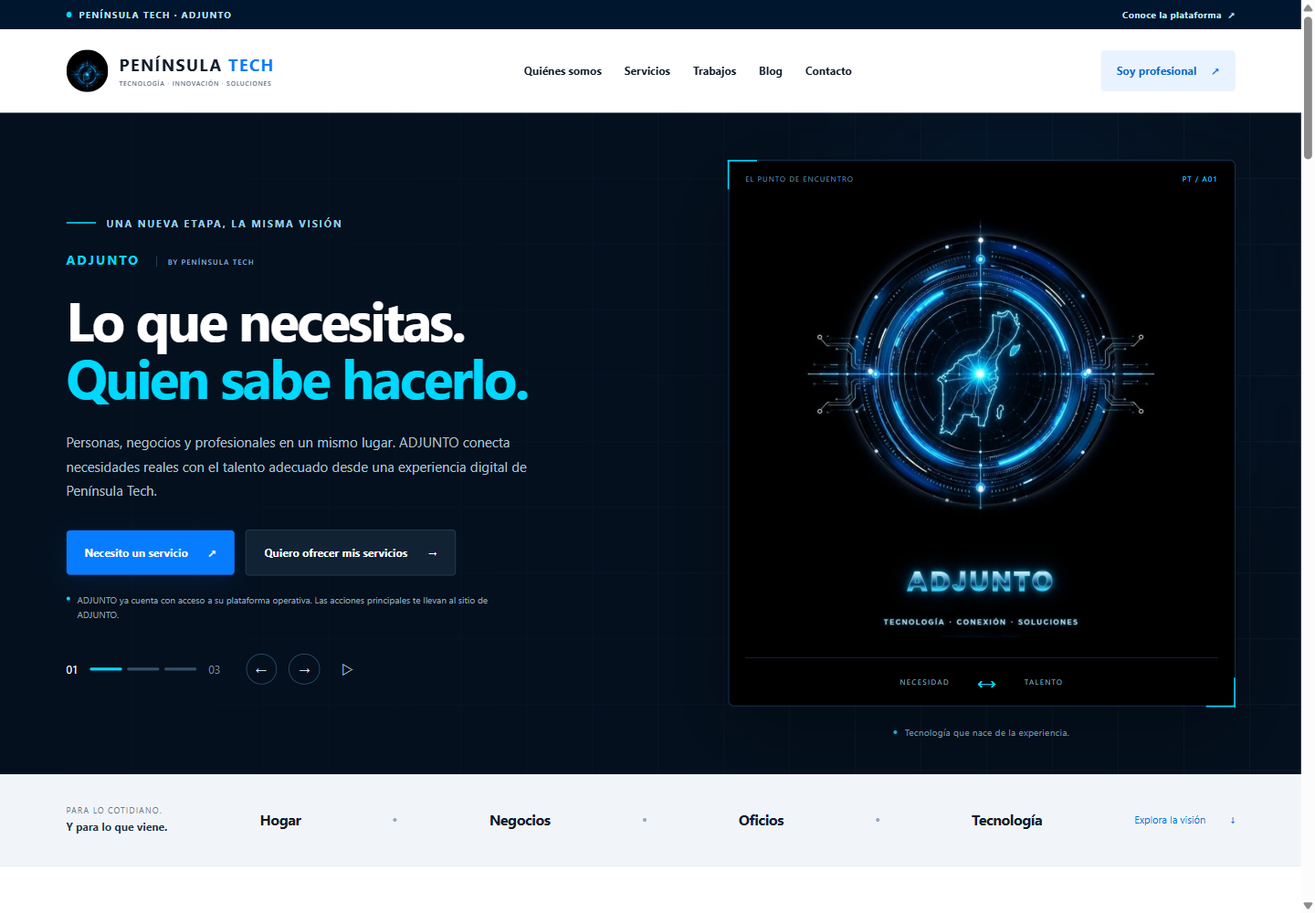
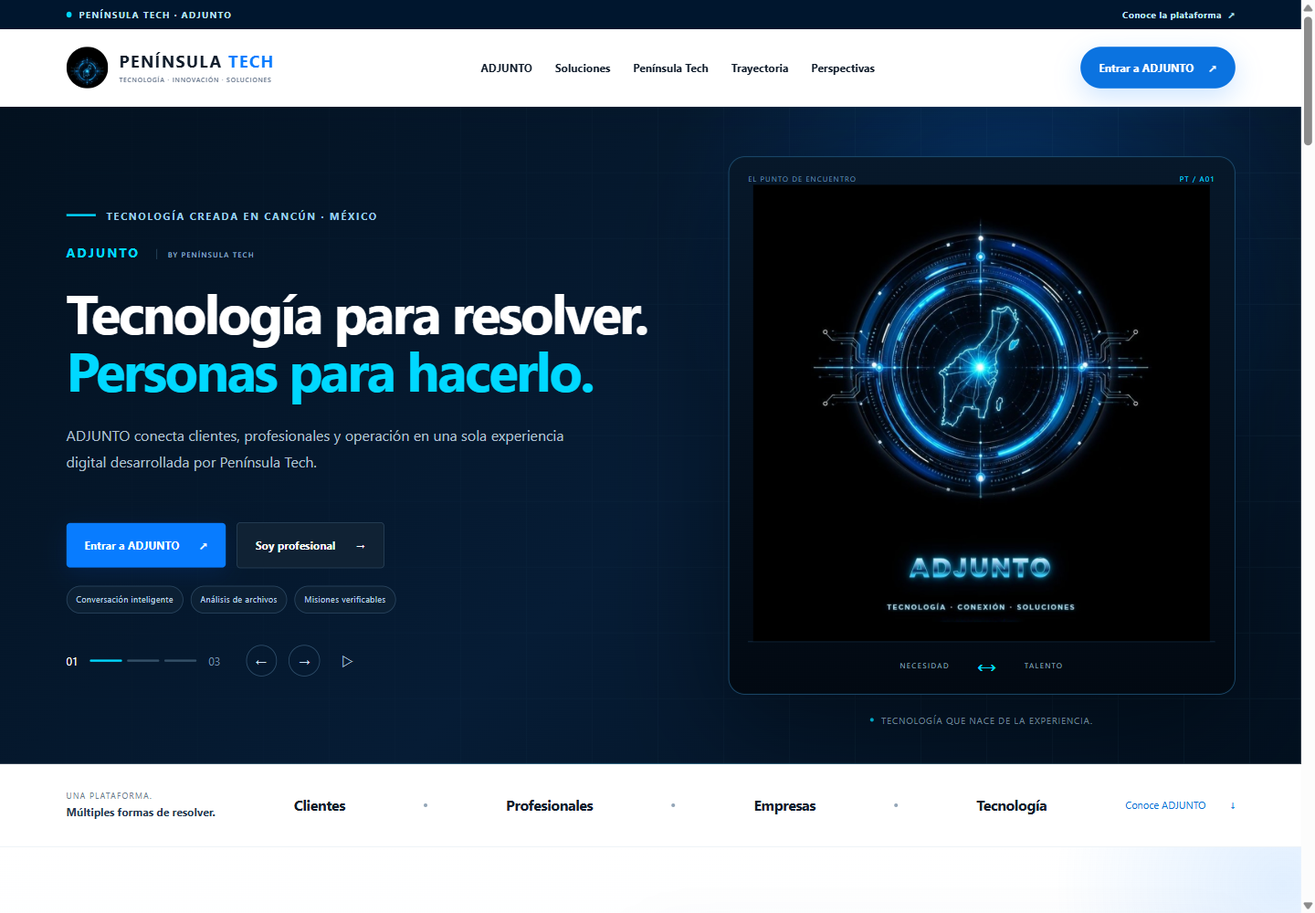
Polish Peninsula Tech corporate landing

diff --git a/peninsula-tech-web/public/index.html b/peninsula-tech-web/public/index.html
@@ -14,57 +14,62 @@
 <header class="header"><div class="wrap nav-wrap">
 <a class="brand" href="#inicio" aria-label="Península Tech, inicio"><img src="assets/peninsula-emblema.png" width="52" height="52" alt="Emblema oficial de Península Tech"><span>PENÍNSULA <strong>TECH</strong><small>TECNOLOGÍA · INNOVACIÓN · SOLUCIONES</small></span></a>
 <button class="menu-toggle" aria-label="Abrir menú" aria-controls="navigation" aria-expanded="false"><span></span><span></span></button>
-<nav id="navigation" aria-label="Navegación principal"><a href="#somos">Quiénes somos</a><a href="#servicios">Servicios</a><a href="#trabajos">Trabajos</a><a href="#blog">Blog</a><a href="#contacto">Contacto</a></nav>
-<button class="nav-action" data-open="professional">Soy profesional <span aria-hidden="true">↗</span></button>
+<nav id="navigation" aria-label="Navegación principal"><a href="#adjunto">ADJUNTO</a><a href="#servicios">Soluciones</a><a href="#somos">Península Tech</a><a href="#trabajos">Trayectoria</a><a href="#blog">Perspectivas</a></nav>
+<button class="nav-action" data-open="client">Entrar a ADJUNTO <span aria-hidden="true">↗</span></button>
 </div></header>
 <main id="principal">
 <section class="hero" id="inicio" aria-roledescription="carrusel" aria-label="Presentación de ADJUNTO">
 <div class="hero-grid" aria-hidden="true"></div><div class="orb orb-one" aria-hidden="true"></div>
 <div class="wrap hero-layout">
-<div class="hero-content"><p class="eyebrow"><span class="line"></span> UNA NUEVA ETAPA, LA MISMA VISIÓN</p>
+<div class="hero-content"><p class="eyebrow"><span class="line"></span> TECNOLOGÍA CREADA EN CANCÚN · MÉXICO</p>
 <p class="product-label">ADJUNTO <span>BY PENÍNSULA TECH</span></p>
 <div class="slide-copy" aria-live="off">
-<h1 id="hero-title">Lo que necesitas.<br><em>Quien sabe hacerlo.</em></h1>
-<p class="hero-desc" id="hero-desc">Personas, negocios y profesionales en un mismo lugar. ADJUNTO conecta necesidades reales con el talento adecuado desde una experiencia digital de Península Tech.</p>
+<h1 id="hero-title">Tecnología para resolver.<br><em>Personas para hacerlo.</em></h1>
+<p class="hero-desc" id="hero-desc">ADJUNTO conecta clientes, profesionales y operación en una sola experiencia digital desarrollada por Península Tech.</p>
 </div>
-<div class="hero-actions"><button class="btn primary" id="hero-main" data-open="client">Necesito un servicio <span aria-hidden="true">↗</span></button><button class="btn secondary" id="hero-alt" data-open="professional">Quiero ofrecer mis servicios <span aria-hidden="true">→</span></button></div>
-<p class="hero-footnote"><span class="tiny-dot"></span> ADJUNTO ya cuenta con acceso a su plataforma operativa. Las acciones principales te llevan al sitio de ADJUNTO.</p>
+<div class="hero-actions"><button class="btn primary" id="hero-main" data-open="client">Entrar a ADJUNTO <span aria-hidden="true">↗</span></button><button class="btn secondary" id="hero-alt" data-open="professional">Soy profesional <span aria-hidden="true">→</span></button></div>
+<div class="hero-proof" aria-label="Capacidades de ADJUNTO"><span>Conversación inteligente</span><span>Análisis de archivos</span><span>Misiones verificables</span></div>
 <div class="hero-progress"><span id="slide-number">01</span><div class="slide-dots" aria-label="Elegir diapositiva"><button class="active" data-slide="0" aria-label="Diapositiva 1: clientes" aria-current="true"></button><button data-slide="1" aria-label="Diapositiva 2: profesionales"></button><button data-slide="2" aria-label="Diapositiva 3: negocios"></button></div><span class="slide-total">03</span><button class="round-button" id="prev-slide" aria-label="Diapositiva anterior">←</button><button class="round-button" id="next-slide" aria-label="Diapositiva siguiente">→</button><button class="pause-button" id="pause-slide" aria-label="Pausar carrusel" aria-pressed="false">Ⅱ</button></div>
 </div>
 <div class="hero-art"><div class="art-frame"><div class="frame-corner c1"></div><div class="frame-corner c2"></div><div class="art-head"><span>EL PUNTO DE ENCUENTRO</span><span class="art-index">PT / A01</span></div><img class="main-emblem" src="assets/adjunto-oficial.png" width="1100" height="1100" alt="Logotipo oficial de ADJUNTO: emblema tecnológico y nombre de la plataforma"><div class="art-foot"><span>NECESIDAD</span><b aria-hidden="true">⟷</b><span>TALENTO</span></div></div><div class="art-caption"><span class="tiny-dot"></span> Tecnología que nace de la experiencia.</div></div>
 </div>
 </section>
-<div class="value-bar"><div class="wrap"><span>PARA LO COTIDIANO.<br><strong>Y para lo que viene.</strong></span><p>Hogar</p><i></i><p>Negocios</p><i></i><p>Oficios</p><i></i><p>Tecnología</p><a href="#servicios" aria-label="Explorar servicios">Explora la visión <b aria-hidden="true">↓</b></a></div></div>
+<div class="value-bar"><div class="wrap"><span>UNA PLATAFORMA.<br><strong>Múltiples formas de resolver.</strong></span><p>Clientes</p><i></i><p>Profesionales</p><i></i><p>Empresas</p><i></i><p>Tecnología</p><a href="#adjunto" aria-label="Conocer ADJUNTO">Conoce ADJUNTO <b aria-hidden="true">↓</b></a></div></div>
+
+<section class="section product-showcase" id="adjunto"><div class="wrap product-layout">
+<div class="product-copy"><p class="eyebrow blue">ADJUNTO · PRODUCTO PRINCIPAL</p><h2>Un espacio para conversar,<br><span>analizar y ejecutar.</span></h2><p class="body-copy">ADJUNTO es la plataforma de Península Tech. Reúne interacción inteligente, archivos, seguimiento y ejecución de tareas en una experiencia diseñada para trabajo real.</p><div class="product-actions"><button class="btn primary" data-open="client">Abrir ADJUNTO <span aria-hidden="true">↗</span></button><a class="text-link" href="#servicios">Ver soluciones <span aria-hidden="true">↓</span></a></div></div>
+<div class="product-console" aria-label="Vista conceptual de ADJUNTO"><div class="console-top"><span><i></i> ADJUNTO</span><small>PLATAFORMA PENÍNSULA TECH</small></div><div class="console-body"><p class="console-kicker">TU ESPACIO DE TRABAJO</p><h3>ADJUNTO listo</h3><p>Conversa, analiza archivos y ejecuta misiones verificables desde un solo lugar.</p><div class="console-chips"><span>Conversación</span><span>Archivos</span><span>Misiones</span></div><div class="console-command"><span>¿Qué necesitas resolver?</span><b>→</b></div></div></div>
+</div></section>
 
 <section class="section services" id="servicios"><div class="wrap">
-<div class="section-head"><div><p class="eyebrow blue">QUÉ PODRÁS ENCONTRAR</p><h2>Muchas necesidades.<br><span>Un punto de partida.</span></h2></div><p>Explora especialidades, explica lo que necesitas y continúa en ADJUNTO para iniciar tu recorrido como cliente o profesional.</p></div>
+<div class="section-head"><div><p class="eyebrow blue">SOLUCIONES</p><h2>Una puerta de entrada.<br><span>Muchas especialidades.</span></h2></div><p>Explora la categoría que necesitas y continúa en ADJUNTO. La plataforma centraliza el recorrido de clientes y profesionales.</p></div>
 <div class="catalogue-toolbar"><div class="filters" role="group" aria-label="Filtrar servicios"><button data-filter="all" class="selected" aria-pressed="true">Todos</button><button data-filter="hogar" aria-pressed="false">Hogar y espacios</button><button data-filter="negocios" aria-pressed="false">Negocios</button><button data-filter="digital" aria-pressed="false">Tecnología y digital</button></div><label class="search"><svg aria-hidden="true" viewBox="0 0 24 24"><circle cx="10.5" cy="10.5" r="6.5"/><path d="m16 16 5 5"/></svg><input id="service-search" type="search" placeholder="Busca una especialidad" aria-label="Buscar una especialidad" autocomplete="off"></label></div>
-<div class="service-grid" id="service-grid"></div><p class="no-results" id="no-results" hidden>No encontramos esa especialidad en esta muestra. Prueba con otra palabra.</p>
+<div class="service-grid" id="service-grid"></div><p class="no-results" id="no-results" hidden>No encontramos esa especialidad. Prueba con otra palabra.</p>
 <div class="catalogue-note"><span><i class="tiny-dot"></i> La disponibilidad se confirma dentro de ADJUNTO.</span><button class="text-link" data-open="professional">Entrar a ADJUNTO como profesional <span aria-hidden="true">→</span></button></div>
 </div></section>
 
-<section class="section how" id="como-funciona"><div class="wrap how-layout"><div><p class="eyebrow blue">CÓMO FUNCIONARÁ</p><h2>Menos vueltas.<br><span>Más claridad.</span></h2><p class="body-copy">El recorrido que estamos preparando une a quien necesita una solución con quien puede realizar el trabajo. La decisión y el acuerdo siguen siendo de las personas.</p><div class="role-tabs" role="tablist" aria-label="Recorrido de la plataforma"><button id="tab-client" role="tab" aria-controls="steps" aria-selected="true" data-role="client">Necesito un servicio</button><button id="tab-professional" role="tab" aria-controls="steps" aria-selected="false" data-role="professional" tabindex="-1">Soy profesional</button></div><button class="text-link" id="try-flow" data-open="client">Explorar este recorrido <span aria-hidden="true">↗</span></button></div><div class="steps" id="steps" role="tabpanel" aria-labelledby="tab-client" tabindex="0"></div></div></section>
+<section class="section how" id="como-funciona"><div class="wrap how-layout"><div><p class="eyebrow blue">CÓMO FUNCIONA</p><h2>Menos vueltas.<br><span>Más claridad.</span></h2><p class="body-copy">ADJUNTO organiza el recorrido entre quien necesita una solución y quien puede realizar el trabajo, manteniendo visibles los pasos esenciales de la operación.</p><div class="role-tabs" role="tablist" aria-label="Recorrido de la plataforma"><button id="tab-client" role="tab" aria-controls="steps" aria-selected="true" data-role="client">Necesito un servicio</button><button id="tab-professional" role="tab" aria-controls="steps" aria-selected="false" data-role="professional" tabindex="-1">Soy profesional</button></div><button class="text-link" id="try-flow" data-open="client">Explorar este recorrido <span aria-hidden="true">↗</span></button></div><div class="steps" id="steps" role="tabpanel" aria-labelledby="tab-client" tabindex="0"></div></div></section>
 
-<section class="section work" id="trabajos"><div class="wrap"><div class="section-head"><div><p class="eyebrow blue">TRABAJOS Y GALERÍA</p><h2>El trabajo también<br><span>se cuenta con imágenes.</span></h2></div><div><p>Así tendrá vida el escaparate de los profesionales: imágenes, especialidad y contexto del trabajo, no solo una lista de servicios.</p><span class="archive-label">MUESTRA CON ARCHIVO VISUAL DE 2018</span></div></div>
+<section class="section work" id="trabajos"><div class="wrap"><div class="section-head"><div><p class="eyebrow blue">TRAYECTORIA VISUAL</p><h2>La experiencia también<br><span>se cuenta con imágenes.</span></h2></div><div><p>Una selección del archivo histórico que forma parte del camino previo a Península Tech y ADJUNTO.</p><span class="archive-label">ARCHIVO HISTÓRICO · 2018</span></div></div>
 <div class="work-grid">
-<button class="work-card work-large" data-gallery="0"><img src="assets/trabajo-01.jpg" alt="Barandal mostrado en la propuesta visual de Multiservicios de 2018" loading="lazy"><span class="work-overlay"><small>ALUMINIO Y VIDRIO</small><strong>Espacios que se transforman.</strong><span>Explorar galería <b aria-hidden="true">↗</b></span></span></button>
+<button class="work-card work-large" data-gallery="0"><img src="assets/trabajo-01.jpg" alt="Barandal mostrado en la propuesta visual de Multiservicios de 2018" loading="lazy" decoding="async"><span class="work-overlay"><small>ALUMINIO Y VIDRIO</small><strong>Espacios que se transforman.</strong><span>Explorar archivo <b aria-hidden="true">↗</b></span></span></button>
 <button class="work-card" data-gallery="1"><img src="assets/trabajo-02.jpg" alt="Cancel de baño del archivo visual histórico" loading="lazy"><span class="work-overlay"><small>ACABADOS</small><strong>El detalle importa.</strong><b aria-hidden="true">↗</b></span></button>
 <button class="work-card" data-gallery="2"><img src="assets/trabajo-03.jpg" alt="Fachada con cristal de la propuesta de 2018" loading="lazy"><span class="work-overlay"><small>ESPACIOS COMERCIALES</small><strong>Ideas que toman forma.</strong><b aria-hidden="true">↗</b></span></button>
-</div><p class="gallery-disclaimer">Estas fotografías proceden del documento histórico de Multiservicios de 2018. Ilustran la galería; no se presentan como servicios realizados a través de ADJUNTO. Antes del lanzamiento comercial se validarán autoría y permisos.</p></div></section>
+</div><p class="gallery-disclaimer">Archivo histórico de Multiservicios de 2018. Estas imágenes documentan una etapa previa y no representan servicios ejecutados por ADJUNTO.</p></div></section>
 
 <section class="section story" id="somos"><div class="wrap story-layout"><div class="history-visual"><span class="history-tag">DE DÓNDE VENIMOS</span><div class="browser-card"><div class="browser-top"><i></i><i></i><i></i><span>Multiservicios de Cancún / 2018</span></div><img src="assets/web-multiservicios-2018.webp" alt="Captura original de la página de Multiservicios de Cancún de 2018, con carrusel de vidrios y aluminios" loading="lazy"><button id="view-archive">Ver el documento recuperado <span aria-hidden="true">↗</span></button></div><div class="history-caption"><strong>1998 → HOY</strong><p>Se transforma la forma.<br>Permanece el propósito.</p></div></div><div class="history-text"><p class="eyebrow blue">QUIÉNES SOMOS</p><h2>No empezamos de cero.<br><span>Evolucionamos contigo.</span></h2><p class="body-copy">Nuestra historia nace de la trayectoria que Heberto Mendoza inició en 1998, escuchando y atendiendo las necesidades de personas, hogares y negocios. Multiservicios fue parte de ese camino.</p><p class="body-copy">Hoy, Península Tech desarrolla ADJUNTO para llevar esa visión a una nueva escala: que los profesionales puedan ofrecer su talento y las personas encuentren cómo resolver sus necesidades.</p><div class="timeline"><div><span>1998</span><p><strong>El origen de la trayectoria</strong>Trabajo, aprendizaje y adaptación a las necesidades del público.</p></div><div><span>2018</span><p><strong>Multiservicios de Cancún</strong>Una identidad propia y una visión integral de los servicios.</p></div><div><span>HOY</span><p><strong>Península Tech · ADJUNTO</strong>De una experiencia de servicio a una plataforma de conexión.</p></div></div><p class="history-note">1998 corresponde a la trayectoria de su impulsor; no a la fecha de creación de Península Tech o ADJUNTO.</p></div></div></section>
 
-<section class="professional"><div class="wrap professional-layout"><div class="pro-art"><img src="assets/peninsula-oficial.png" alt="Identidad oficial de Península Tech" loading="lazy" decoding="async"><span>UNA PLATAFORMA.<br><strong>MUCHAS ESPECIALIDADES.</strong></span></div><div><p class="eyebrow">PARA QUIEN SABE HACERLO</p><h2>Tu oficio merece<br><em>su propio espacio.</em></h2><p>No buscamos tener empleados de cada especialidad. Estamos preparando una plataforma donde los profesionales se registren para ofrecer sus servicios, con una habilitación acorde a la actividad.</p><button class="btn primary light" data-open="professional">Conoce el registro profesional <span aria-hidden="true">↗</span></button><small>El botón abre la plataforma ADJUNTO para continuar el registro y acceso.</small></div></div></section>
+<section class="professional"><div class="wrap professional-layout"><div class="pro-art"><img src="assets/peninsula-oficial.png" alt="Identidad oficial de Península Tech" loading="lazy" decoding="async"><span>PENÍNSULA TECH<br><strong>TECNOLOGÍA PARA OPERAR MEJOR.</strong></span></div><div><p class="eyebrow">PARA PROFESIONALES</p><h2>Tu experiencia merece<br><em>un espacio digital.</em></h2><p>ADJUNTO permite a profesionales iniciar su recorrido dentro de una plataforma preparada para conectar especialidades con necesidades reales.</p><button class="btn primary light" data-open="professional">Entrar como profesional <span aria-hidden="true">↗</span></button><small>El acceso continúa directamente en ADJUNTO.</small></div></div></section>
 
-<section class="section blog" id="blog"><div class="wrap"><div class="section-head"><div><p class="eyebrow blue">IDEAS QUE SÍ SIRVEN</p><h2>Experiencia que se comparte.<br><span>Una comunidad que aprende.</span></h2></div><p>El blog tendrá espacio para consejos prácticos, historias del oficio y avances de la plataforma. Estos son primeros borradores editoriales.</p></div><div class="blog-grid">
-<button class="blog-card" data-article="0"><div class="blog-art blueprint"><span class="article-number">01</span><div class="outline-box"></div><b>EMPIEZA<br>POR EL ALCANCE.</b></div><small>PARA CLIENTES · BORRADOR</small><h3>Una buena solicitud empieza antes de la cotización.</h3><span class="article-link">Leer artículo <b aria-hidden="true">↗</b></span></button>
-<button class="blog-card" data-article="1"><div class="blog-art dark-art"><span class="article-number">02</span><div class="skill-lines"><i></i><i></i><i></i></div><b>TU TRABAJO<br>HABLA POR TI.</b></div><small>PARA PROFESIONALES · BORRADOR</small><h3>Un perfil que explique qué sabes hacer.</h3><span class="article-link">Leer artículo <b aria-hidden="true">↗</b></span></button>
-<button class="blog-card" data-article="2"><div class="blog-art history-art"><span class="article-number">03</span><span class="year-art">1998 <i>→</i></span><b>LA VISIÓN<br>SIGUE VIVA.</b></div><small>NUESTRA HISTORIA · BORRADOR</small><h3>Lo que cambia y lo que no: del oficio a ADJUNTO.</h3><span class="article-link">Leer artículo <b aria-hidden="true">↗</b></span></button>
+<section class="section blog" id="blog"><div class="wrap"><div class="section-head"><div><p class="eyebrow blue">PERSPECTIVAS</p><h2>Experiencia que se comparte.<br><span>Ideas para trabajar mejor.</span></h2></div><p>Contenido sobre operación, oficios, tecnología y la evolución de Península Tech y ADJUNTO.</p></div><div class="blog-grid">
+<button class="blog-card" data-article="0"><div class="blog-art blueprint"><span class="article-number">01</span><div class="outline-box"></div><b>EMPIEZA<br>POR EL ALCANCE.</b></div><small>PARA CLIENTES</small><h3>Una buena solicitud empieza antes de la cotización.</h3><span class="article-link">Leer artículo <b aria-hidden="true">↗</b></span></button>
+<button class="blog-card" data-article="1"><div class="blog-art dark-art"><span class="article-number">02</span><div class="skill-lines"><i></i><i></i><i></i></div><b>TU TRABAJO<br>HABLA POR TI.</b></div><small>PARA PROFESIONALES</small><h3>Un perfil que explique qué sabes hacer.</h3><span class="article-link">Leer artículo <b aria-hidden="true">↗</b></span></button>
+<button class="blog-card" data-article="2"><div class="blog-art history-art"><span class="article-number">03</span><span class="year-art">1998 <i>→</i></span><b>LA VISIÓN<br>SIGUE VIVA.</b></div><small>NUESTRA HISTORIA</small><h3>Lo que cambia y lo que no: del oficio a ADJUNTO.</h3><span class="article-link">Leer artículo <b aria-hidden="true">↗</b></span></button>
 </div></div></section>
 
 <section class="contact section" id="contacto"><div class="wrap"><p class="eyebrow">DOS CAMINOS. UN MISMO PUNTO DE ENCUENTRO.</p><h2>¿Qué quieres<br><em>hacer posible?</em></h2><div class="contact-choices"><button data-open="client"><span class="choice-num">01 / CLIENTES</span><strong>Necesito resolver algo.</strong><span>Ir a ADJUNTO <b aria-hidden="true">↗</b></span></button><button data-open="professional"><span class="choice-num">02 / PROFESIONALES</span><strong>Quiero ofrecer mi talento.</strong><span>Ir a ADJUNTO <b aria-hidden="true">↗</b></span></button></div><p class="contact-note">Las acciones de clientes y profesionales continúan en la plataforma ADJUNTO.</p></div></section>
 </main>
-<footer><div class="wrap footer-main"><a class="brand" href="#inicio"><img src="assets/peninsula-emblema.png" width="48" height="48" alt=""><span>PENÍNSULA <strong>TECH</strong><small>LA EMPRESA DETRÁS DE ADJUNTO</small></span></a><p>Una historia de trabajo.<br>Una nueva etapa de innovación.</p><div><a href="#somos">Nuestra historia</a><a href="#servicios">Explorar servicios</a><button id="review-notes">Notas de esta versión</button></div></div><div class="wrap footer-bottom"><span>© 2026 Península Tech</span><span>ADJUNTO · Plataforma tecnológica de Península Tech.</span><a href="#inicio">Volver arriba ↑</a></div></footer>
+<footer><div class="wrap footer-main"><a class="brand" href="#inicio"><img src="assets/peninsula-emblema.png" width="48" height="48" alt=""><span>PENÍNSULA <strong>TECH</strong><small>LA EMPRESA DETRÁS DE ADJUNTO</small></span></a><p>Tecnología, operación y experiencia<br>convertidas en productos digitales.</p><div><a href="#adjunto">Conocer ADJUNTO</a><a href="#somos">Península Tech</a><button data-open="client">Abrir plataforma</button></div></div><div class="wrap footer-bottom"><span>© 2026 Península Tech</span><span>ADJUNTO · Plataforma tecnológica de Península Tech.</span><a href="#inicio">Volver arriba ↑</a></div></footer>
 <div id="live-announcement" class="sr-only" role="status" aria-live="polite"></div>
 <dialog id="modal" aria-labelledby="modal-title"><div class="dialog-shell"><button class="close-modal" aria-label="Cerrar ventana">×</button><div id="modal-body"></div></div></dialog>
 <script src="app.js"></script>

diff --git a/peninsula-tech-web/public/app.js b/peninsula-tech-web/public/app.js
@@ -5,9 +5,9 @@
   const reduced = matchMedia('(prefers-reduced-motion: reduce)');
   const PLATFORM_URL = 'https://fixgo-44e4d.web.app/';
   const slides = [
-    {title:'Lo que necesitas.<br><em>Quien sabe hacerlo.</em>', desc:'Personas, negocios y profesionales en un mismo lugar. ADJUNTO conecta necesidades reales con el talento adecuado desde una experiencia digital de Península Tech.', main:'Necesito un servicio', mainRole:'client', alt:'Quiero ofrecer mis servicios', altRole:'professional', art:'EL PUNTO DE ENCUENTRO',image:'assets/adjunto-oficial.png',imageAlt:'Logotipo oficial de ADJUNTO',caption:'Tecnología que nace de la experiencia.'},
-    {title:'Tu oficio.<br><em>Nuevas posibilidades.</em>', desc:'Electricistas, técnicos, especialistas y talento digital. ADJUNTO abre un espacio para ofrecer lo que sabes hacer y continuar tu registro en la plataforma.', main:'Quiero ofrecer mis servicios', mainRole:'professional', alt:'Conocer las especialidades', altRole:'catalogue', art:'EL TALENTO ES EL PROTAGONISTA',image:'assets/trabajo-03.jpg',imageAlt:'Fachada acristalada del archivo visual de Multiservicios de 2018',caption:'Archivo visual de Multiservicios · referencia de 2018.'},
-    {title:'De casa al negocio.<br><em>La visión crece.</em>', desc:'Desde una necesidad cotidiana hasta un proyecto más amplio. ADJUNTO organiza el acceso a especialidades, zonas y capacidad real de atención.', main:'Explorar una solicitud', mainRole:'client', alt:'Conocer nuestra historia', altRole:'history', art:'UNA VISIÓN QUE SIGUE EVOLUCIONANDO',image:'assets/espacios.jpg',imageAlt:'Espacio interior de la captura histórica de la web de 2018',caption:'Archivo de la web de 2018 · referencia visual.'}
+    {title:'Tecnología para resolver.<br><em>Personas para hacerlo.</em>', desc:'ADJUNTO conecta clientes, profesionales y operación en una sola experiencia digital desarrollada por Península Tech.', main:'Entrar a ADJUNTO', mainRole:'client', alt:'Soy profesional', altRole:'professional', art:'EL PUNTO DE ENCUENTRO',image:'assets/adjunto-oficial.png',imageAlt:'Logotipo oficial de ADJUNTO',caption:'Tecnología que nace de la experiencia.'},
+    {title:'Tu experiencia.<br><em>Un espacio digital.</em>', desc:'Profesionales y especialistas pueden iniciar su recorrido en ADJUNTO y conectar su capacidad con necesidades reales.', main:'Entrar como profesional', mainRole:'professional', alt:'Explorar soluciones', altRole:'catalogue', art:'TALENTO Y TECNOLOGÍA',image:'assets/trabajo-03.jpg',imageAlt:'Fachada acristalada del archivo visual de Multiservicios de 2018',caption:'Trayectoria, oficio y tecnología en una misma visión.'},
+    {title:'De una necesidad.<br><em>A una operación clara.</em>', desc:'ADJUNTO reúne el acceso a especialidades y el recorrido operativo dentro de una plataforma creada para crecer.', main:'Abrir ADJUNTO', mainRole:'client', alt:'Conocer Península Tech', altRole:'history', art:'UNA VISIÓN QUE EVOLUCIONA',image:'assets/espacios.jpg',imageAlt:'Espacio interior del archivo histórico de Multiservicios',caption:'De la experiencia de servicio a una plataforma tecnológica.'}
   ];
   let activeSlide = 0, paused = reduced.matches, hovered = false;
   const hero = $('.hero');
@@ -114,9 +114,9 @@
     {title:'Un perfil que explique qué sabes hacer.',tag:'PARA PROFESIONALES',paragraphs:[['Ser específico ayuda.','En lugar de “hago de todo”, describe las especialidades que puedes atender, los equipos con los que trabajas y los límites de lo que ofreces.'],['Muestra lo que sí es tuyo.','Selecciona ejemplos de trabajos propios y comparte imágenes con autorización. Explica qué hiciste y qué parte del resultado corresponde a tu intervención.'],['Deja claros tus límites.','Una zona de trabajo y una disponibilidad realista ayudan a evitar compromisos que no puedes sostener. No hace falta prometer cobertura ilimitada.'],['Un perfil no sustituye la validación.','El recorrido de ADJUNTO deberá comprobar los requisitos correspondientes antes de habilitar a un profesional. Un registro de datos, por sí solo, no es una aprobación.']]},
     {title:'Lo que cambia y lo que no: del oficio a ADJUNTO.',tag:'NUESTRA HISTORIA',paragraphs:[['Una visión que se adapta.','En 1998 comenzó la trayectoria de Heberto Mendoza. A lo largo de ese camino, Multiservicios fue creciendo alrededor de las necesidades de personas, hogares y negocios.'],['Un archivo que guarda una intención.','La propuesta web de 2018 ya reunía distintas divisiones, una galería, información del negocio y contacto. Su diseño mostraba la intención de comunicar capacidad, no solo enumerar oficios.'],['Otra forma de crecer.','Península Tech abre una nueva etapa con el desarrollo de ADJUNTO: una plataforma donde clientes y profesionales puedan encontrarse, sin que todas las especialidades tengan que formar parte de una misma plantilla laboral.'],['La calidad antes que el porcentaje.','La ambición es ampliar las posibilidades. Para que eso tenga sentido, una categoría deberá representar capacidad real de atención y un recorrido comprobado, no únicamente un nombre en un menú.']]}
   ];
-  function showArticle(i){const a=articles[i];showModal(`<p class="modal-kicker">BLOG / ${a.tag} / BORRADOR EDITORIAL</p><h2 id="modal-title">${a.title}</h2><div class="article-body">${a.paragraphs.map(p=>`<h3>${p[0]}</h3><p>${p[1]}</p>`).join('')}</div><p class="preview-notice">Texto de propuesta para revisión de Heberto. No se presenta como artículo publicado ni como acreditación de capacidades actuales.</p>`);}
+  function showArticle(i){const a=articles[i];showModal(`<p class="modal-kicker">PERSPECTIVAS / ${a.tag}</p><h2 id="modal-title">${a.title}</h2><div class="article-body">${a.paragraphs.map(p=>`<h3>${p[0]}</h3><p>${p[1]}</p>`).join('')}</div><p class="preview-notice">Texto de propuesta para revisión de Heberto. No se presenta como artículo publicado ni como acreditación de capacidades actuales.</p>`);}
   const notes=`<p class="modal-kicker">PENÍNSULA TECH / ADJUNTO</p><h2 id="modal-title">Conoce la plataforma.</h2><p class="modal-intro">Esta web presenta la visión de Península Tech y dirige las acciones principales de clientes y profesionales hacia ADJUNTO.</p><ul class="notes-list"><li>ADJUNTO es la plataforma protagonista; Península Tech es la empresa detrás.</li><li>La web de MPH no fue reemplazada. Esta es una muestra independiente.</li><li>Las altas, solicitudes y operaciones se realizan en la plataforma ADJUNTO, no dentro de esta página corporativa.</li><li>Las fotografías de galería son archivo visual de 2018, no portafolio de ADJUNTO.</li><li>No se anuncian porcentajes de cobertura, tiempos garantizados, calificaciones ni profesionales ficticios.</li><li>Faltan contenido definitivo, medios autorizados y pruebas de integración antes del lanzamiento comercial.</li></ul><p class="preview-notice">Para iniciar una solicitud o registro profesional, utiliza los accesos a ADJUNTO disponibles en esta página.</p>`;
-  $('#preview-info').onclick=()=>window.location.assign(PLATFORM_URL);$('#review-notes').onclick=()=>showModal(notes);
+  $('#preview-info').onclick=()=>window.location.assign(PLATFORM_URL);$('#review-notes')?.addEventListener('click',()=>showModal(notes));
   $('#view-archive').onclick=()=>showModal('<p class="modal-kicker">DOCUMENTO RECUPERADO / AGOSTO DE 2018</p><h2 id="modal-title">La visión ya estaba ahí.</h2><p class="modal-intro">Vista del PDF “Pagina multiservicios”, conservado en el correo de Heberto. Contiene texto de relleno y referencias de diseño: es una maqueta histórica, no una copia funcional del sitio.</p><img class="history-full" src="assets/maqueta-completa-2018.webp" alt="Maqueta histórica completa de Multiservicios de Cancún de 2018">');
   document.addEventListener('click',e=>{const open=e.target.closest('[data-open]');if(open){const r=open.dataset.open;if(r==='catalogue')$('#servicios').scrollIntoView({behavior:reduced.matches?'auto':'smooth'});else if(r==='history')$('#somos').scrollIntoView({behavior:reduced.matches?'auto':'smooth'});else if(r==='client'||r==='professional')window.location.assign(PLATFORM_URL);return;}const s=e.target.closest('[data-service]');if(s){window.location.assign(PLATFORM_URL);return;}const g=e.target.closest('[data-gallery]');if(g){galleryIndex=Number(g.dataset.gallery);showModal('');renderGallery();return;}const a=e.target.closest('[data-article]');if(a)showArticle(Number(a.dataset.article));});
 })();

diff --git a/peninsula-tech-web/public/styles.css b/peninsula-tech-web/public/styles.css
@@ -8,3 +8,67 @@ dialog{border:1px solid #ced9e6;border-radius:12px;padding:0;width:min(680px,cal
 [hidden]{display:none!important}
 
 .preview-strip button{display:inline-flex;align-items:center;gap:7px}.preview-strip button span{display:inline}.art-frame[data-state="1"] .main-emblem,.art-frame[data-state="2"] .main-emblem{object-fit:contain;opacity:1;margin:12px 0;border-radius:3px;filter:none}
+
+
+/* 2026-10-14 · Corporate refinement */
+body{background:#f8fafc}
+.header{box-shadow:0 12px 35px rgba(4,16,30,.06);border-bottom:1px solid rgba(9,66,119,.07)}
+.nav-wrap{height:84px}
+.nav-action{background:#0b73e0;color:#fff;border-radius:999px;padding:13px 20px;box-shadow:0 10px 28px rgba(8,124,255,.2)}
+.nav-action:hover{background:#075fb8}
+.hero{background:radial-gradient(circle at 76% 18%,rgba(0,117,255,.2),transparent 29%),linear-gradient(135deg,#03111f 0%,#061c35 54%,#02101f 100%)}
+.hero:after{content:"";position:absolute;left:0;right:0;bottom:0;height:1px;background:linear-gradient(90deg,transparent,#19c7ff66,transparent)}
+.hero-layout{min-height:720px}
+.hero h1{font-weight:760;max-width:720px}
+.hero-desc{font-size:16px;max-width:590px}
+.hero-proof{display:flex;gap:8px;flex-wrap:wrap;margin-top:19px}
+.hero-proof span{font-size:9px;letter-spacing:.04em;color:#bcd3e8;border:1px solid #2a4660;background:#0c2034;padding:7px 10px;border-radius:999px}
+.art-frame{background:linear-gradient(180deg,#07182a,#020912);border:1px solid #1e4d70;border-radius:18px;padding:18px 21px 14px;box-shadow:0 35px 120px rgba(0,0,0,.42),0 0 0 1px rgba(0,216,255,.04) inset}
+.frame-corner{display:none}
+.main-emblem{max-height:500px;filter:none!important}
+.art-caption{letter-spacing:.08em;text-transform:uppercase}
+.value-bar{background:#fff;border-bottom:1px solid #e7edf4;box-shadow:0 8px 28px rgba(16,41,70,.035)}
+.value-bar .wrap{min-height:90px}
+.product-showcase{background:linear-gradient(180deg,#fff 0%,#f5f9fe 100%);position:relative;overflow:hidden}
+.product-showcase:before{content:"";position:absolute;width:520px;height:520px;border-radius:50%;right:-240px;top:-220px;background:radial-gradient(circle,rgba(8,124,255,.12),transparent 68%)}
+.product-layout{display:grid;grid-template-columns:.92fr 1.08fr;gap:90px;align-items:center;position:relative}
+.product-copy h2{font-size:clamp(38px,4vw,58px)}
+.product-actions{display:flex;align-items:center;gap:26px;margin-top:30px;flex-wrap:wrap}
+.product-console{background:#071321;color:white;border-radius:20px;border:1px solid #163652;box-shadow:0 30px 80px rgba(17,53,84,.2);overflow:hidden;min-height:410px}
+.console-top{height:54px;padding:0 19px;display:flex;justify-content:space-between;align-items:center;border-bottom:1px solid #18344d;color:#a8c5db;font-size:9px;letter-spacing:.11em}
+.console-top span{display:flex;align-items:center;gap:9px}
+.console-top i{width:7px;height:7px;border-radius:50%;background:#00d8ff;box-shadow:0 0 16px #00d8ff}
+.console-top small{font-size:8px;color:#56758f}
+.console-body{padding:42px}
+.console-kicker{font-size:9px;letter-spacing:.16em;color:#5fa9df}
+.console-body h3{font-size:34px;margin:10px 0 13px;letter-spacing:-.04em}
+.console-body>p:not(.console-kicker){font-size:13px;color:#9eb4c8;line-height:1.8;max-width:460px}
+.console-chips{display:flex;gap:8px;flex-wrap:wrap;margin-top:23px}
+.console-chips span{font-size:9px;color:#b7cee1;border:1px solid #27455e;background:#0d2236;padding:7px 10px;border-radius:999px}
+.console-command{margin-top:50px;border:1px solid #27455e;background:#0a1a2a;padding:15px 17px;border-radius:10px;display:flex;justify-content:space-between;align-items:center;color:#728da5;font-size:11px}
+.console-command b{display:grid;place-items:center;width:28px;height:28px;background:#087cff;border-radius:7px;color:#fff}
+.services{background:#fff}
+.service-grid{gap:16px}
+.service-card{border-color:#e5ebf2;border-radius:14px;box-shadow:0 8px 28px rgba(20,52,84,.035);min-height:184px}
+.service-card:hover{border-color:#98c7f4;box-shadow:0 18px 42px rgba(20,72,120,.1);transform:translateY(-5px)}
+.service-icon{width:42px;height:42px;border-radius:12px;background:#edf6ff;display:grid;place-items:center}
+.service-icon svg{width:23px;height:23px}
+.how{background:#f3f7fb}
+.work{background:#fff}
+.work-card{border-radius:14px;box-shadow:0 16px 42px rgba(15,38,62,.08)}
+.work-card img{image-rendering:auto}
+.story{background:linear-gradient(180deg,#f5f8fb,#eef4f9)}
+.browser-card{border-radius:16px;box-shadow:0 26px 60px rgba(27,65,100,.12)}
+.professional{background:radial-gradient(circle at 15% 20%,#0b4d8038,transparent 35%),linear-gradient(135deg,#021223,#062746);padding:92px 0}
+.pro-art img{border-radius:16px;box-shadow:0 24px 70px rgba(0,0,0,.25)}
+.blog{background:#fff}
+.blog-art{border-radius:14px}
+.blog-card h3{font-weight:680}
+.contact{background:radial-gradient(circle at 85% 10%,#13c7ff55,transparent 34%),linear-gradient(135deg,#064cae,#076fd9)}
+.contact-choices button{border:1px solid #b8dcff4d;border-radius:14px;padding:24px;background:#ffffff08}
+.contact-choices button:hover{background:#ffffff12;transform:translateY(-2px)}
+footer{padding-top:58px}
+.footer-main{align-items:start}
+.footer-main>div button{color:#c1d7ea}
+@media(max-width:930px){.product-layout{gap:48px}.console-body{padding:32px}.product-console{min-height:370px}}
+@media(max-width:760px){.product-layout{grid-template-columns:1fr;gap:35px}.product-console{min-height:340px;border-radius:16px}.console-body{padding:28px 22px}.console-body h3{font-size:29px}.console-command{margin-top:34px}.hero-proof{margin-top:16px}.hero-proof span{font-size:8px}.contact-choices button{padding:20px}.nav-wrap{height:72px}}
